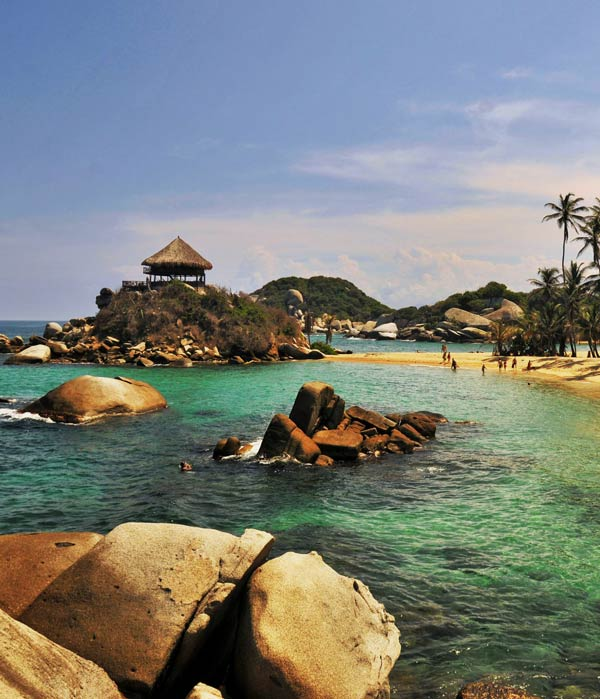
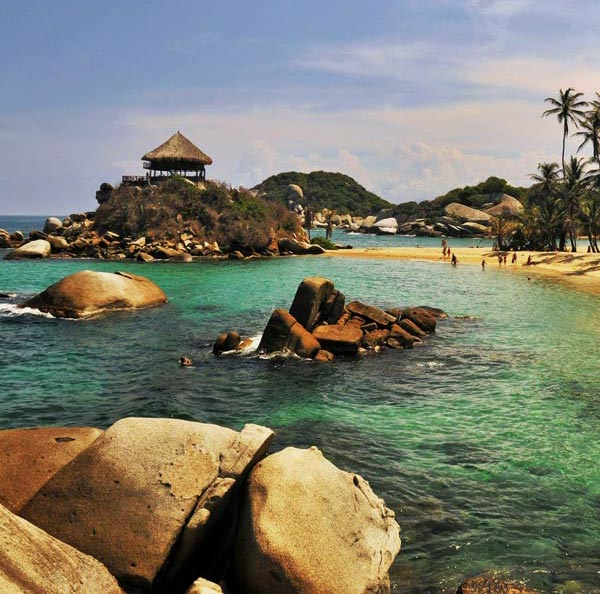
wedding-details img bg set up

diff --git a/css/app.css b/css/app.css
@@ -4811,35 +4811,14 @@ nav.mainNav {
   .index .loveStory-headline {
     margin-top: 0; } }
 
-.index .loveStory-headline {
-  text-align: right;
-  background: rgba(0, 0, 0, 0.35);
-  padding: 0.75rem 1rem;
-  float: right;
-  margin-bottom: 3.75rem;
-  margin-top: 12.5rem; }
-  @media only screen and (max-width: 35.625em) {
-    .index .loveStory-headline {
-      margin-top: 6.25rem;
-      margin-bottom: 1.875rem; } }
-  .index .loveStory-headline h1,
-  .index .loveStory-headline p {
-    color: #fff; }
-  .index .loveStory-headline p {
-    max-width: 18.75rem;
-    letter-spacing: 0.00625rem;
-    font-weight: 600;
-    float: right; }
-
-.index .loveStory-prose {
-  background: #fff;
-  box-shadow: 0 0.0625rem 0.25rem 0 rgba(0, 0, 0, 0.37);
-  padding: 1.25rem;
-  margin-bottom: 3.75rem; }
-
-@media print, screen and (min-width: 40em) {
-  .index .loveStory-headline {
-    margin-top: 0; } }
+.index {
+  background: #C5C5C5 url("/img/wedding-details/small.jpg") left top/cover no-repeat fixed; }
+  @media print, screen and (min-width: 40em) {
+    .index {
+      background: #C5C5C5 url("/img/wedding-details/medium.jpg") 30% top/cover no-repeat fixed; } }
+  @media print, screen and (min-width: 64em) {
+    .index {
+      background: #C5C5C5 url("/img/wedding-details/large.jpg") 30% top/cover no-repeat fixed; } }
 
 .p-0 {
   padding: 0; }

diff --git a/scss/pages/wedding-details/_wedding-details.scss b/scss/pages/wedding-details/_wedding-details.scss
@@ -2,49 +2,3 @@
 
 @import "_background.scss";
 
-$max-480: "only screen and (max-width : 30.000em)";
-$max-570: "only screen and (max-width : 35.625em)";
-
-.index {
-	.loveStory-headline {
-		text-align: right; 
-		background: rgba(0,0,0,0.35); 
-		padding: rem-calc(12) rem-calc(16); 
-		float: right;
-
-		@media #{$max-570} {
-			margin-top: rem-calc(100);
-			margin-bottom: rem-calc(30);
-		}
-		
-		margin-bottom: rem-calc(60);
-		margin-top: rem-calc(200);
-
-		h1,
-		p {
-			color: #fff;
-		}
-
-		p {
-			max-width: rem-calc(300);
-			letter-spacing: rem-calc(0.1);
-			font-weight: 600;
-			float: right;
-		}
-	}
-
-	.loveStory-prose {
-		background: #fff; 
-		box-shadow: 0 rem-calc(1) rem-calc(4) 0 rgba(0,0,0,0.37); 
-		padding: rem-calc(20);
-		margin-bottom: rem-calc(60);
-	}
-}
-
-@include breakpoint(medium) {
-	.index {
-		.loveStory-headline {
-			margin-top: 0;
-		}
-	}	
-}

diff --git a/scss/pages/wedding-details/_background.scss b/scss/pages/wedding-details/_background.scss
@@ -1,2 +1,20 @@
 @import "../../_settings.scss";
 
+$max-480: "only screen and (max-width : 30.000em)";
+
+.index {
+	background: #C5C5C5 url('/img/wedding-details/small.jpg') left top/cover no-repeat fixed;
+
+	// @media #{$max-480} {
+	// 	background: #C5C5C5 url('/img/our-story/max-480.jpg') left top/contain no-repeat;
+	// }
+
+	@include breakpoint(medium) {
+		background: #C5C5C5 url('/img/wedding-details/medium.jpg') 30% top/cover no-repeat fixed;
+	}
+
+	@include breakpoint(large) {
+		background: #C5C5C5 url('/img/wedding-details/large.jpg') 30% top/cover no-repeat fixed;
+	}
+}
+
